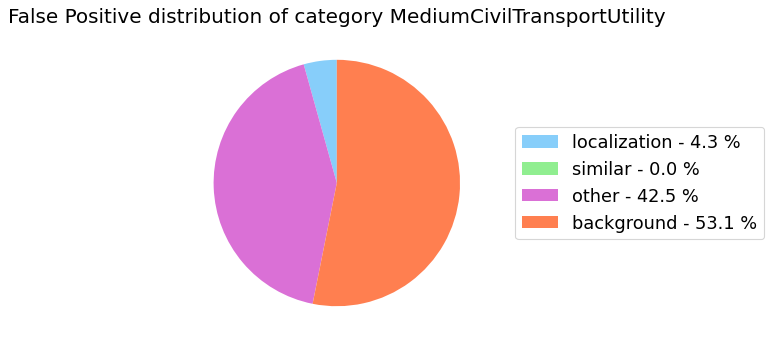
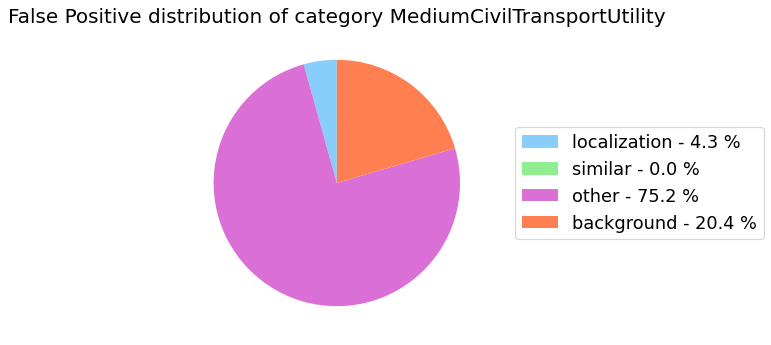
update tables, added FP fix

diff --git a/fp_explanation.md b/fp_explanation.md
@@ -1,0 +1,31 @@
+---
+permalink: /correction/fp_background_error.html
+nav_exclude: true
+---
+
+# False Positive background error correction (Localization tasks)
+
+### Previous version
+In the previous version of _Odin_, each prediction was matched with an annotation of the same category, if any, otherwise it was matched with the annotation with the highest IoU score.
+
+In this way, if in an image there was at least one annotation of the predicted category and the score of Iou with the prediction was lower than a minimum threshold (0.2), the error was classified as 'background'.
+
+With this categorization, the 'background' errors also included cases where the model had correctly located an object, but the predicted class was wrong.
+
+The following images provide some examples of this case:
+
+![fp_background_a](../img/fp_explanation/id_1.png){:class="img-responsive" style="max-width:450px"}
+![fp_background_b](../img/fp_explanation/id_54.png){:class="img-responsive" style="max-width:450px"}
+{: .text-center}
+
+
+### Actual version
+In the actual version we have modified the matching between the predictions and the ground truth as follow.
+
+Each prediction is matched with an annotation of the same category only if the IoU score is greater than a minimum threshold (0.2), so to be considered at least a localization error (if the IoU score is less than the threshold provided), otherwise, the prediction is matched with the annotation with the highest IoU score.
+
+With this change, if the model has correctly located an object, but the predicted class is wrong, the error is classified as 'other' or 'similar' (if the model has confused two similar classes).
+
+
+<b>N.B. This change affects only the FP categorization and impact analysis</b>
+{: .text-center}
